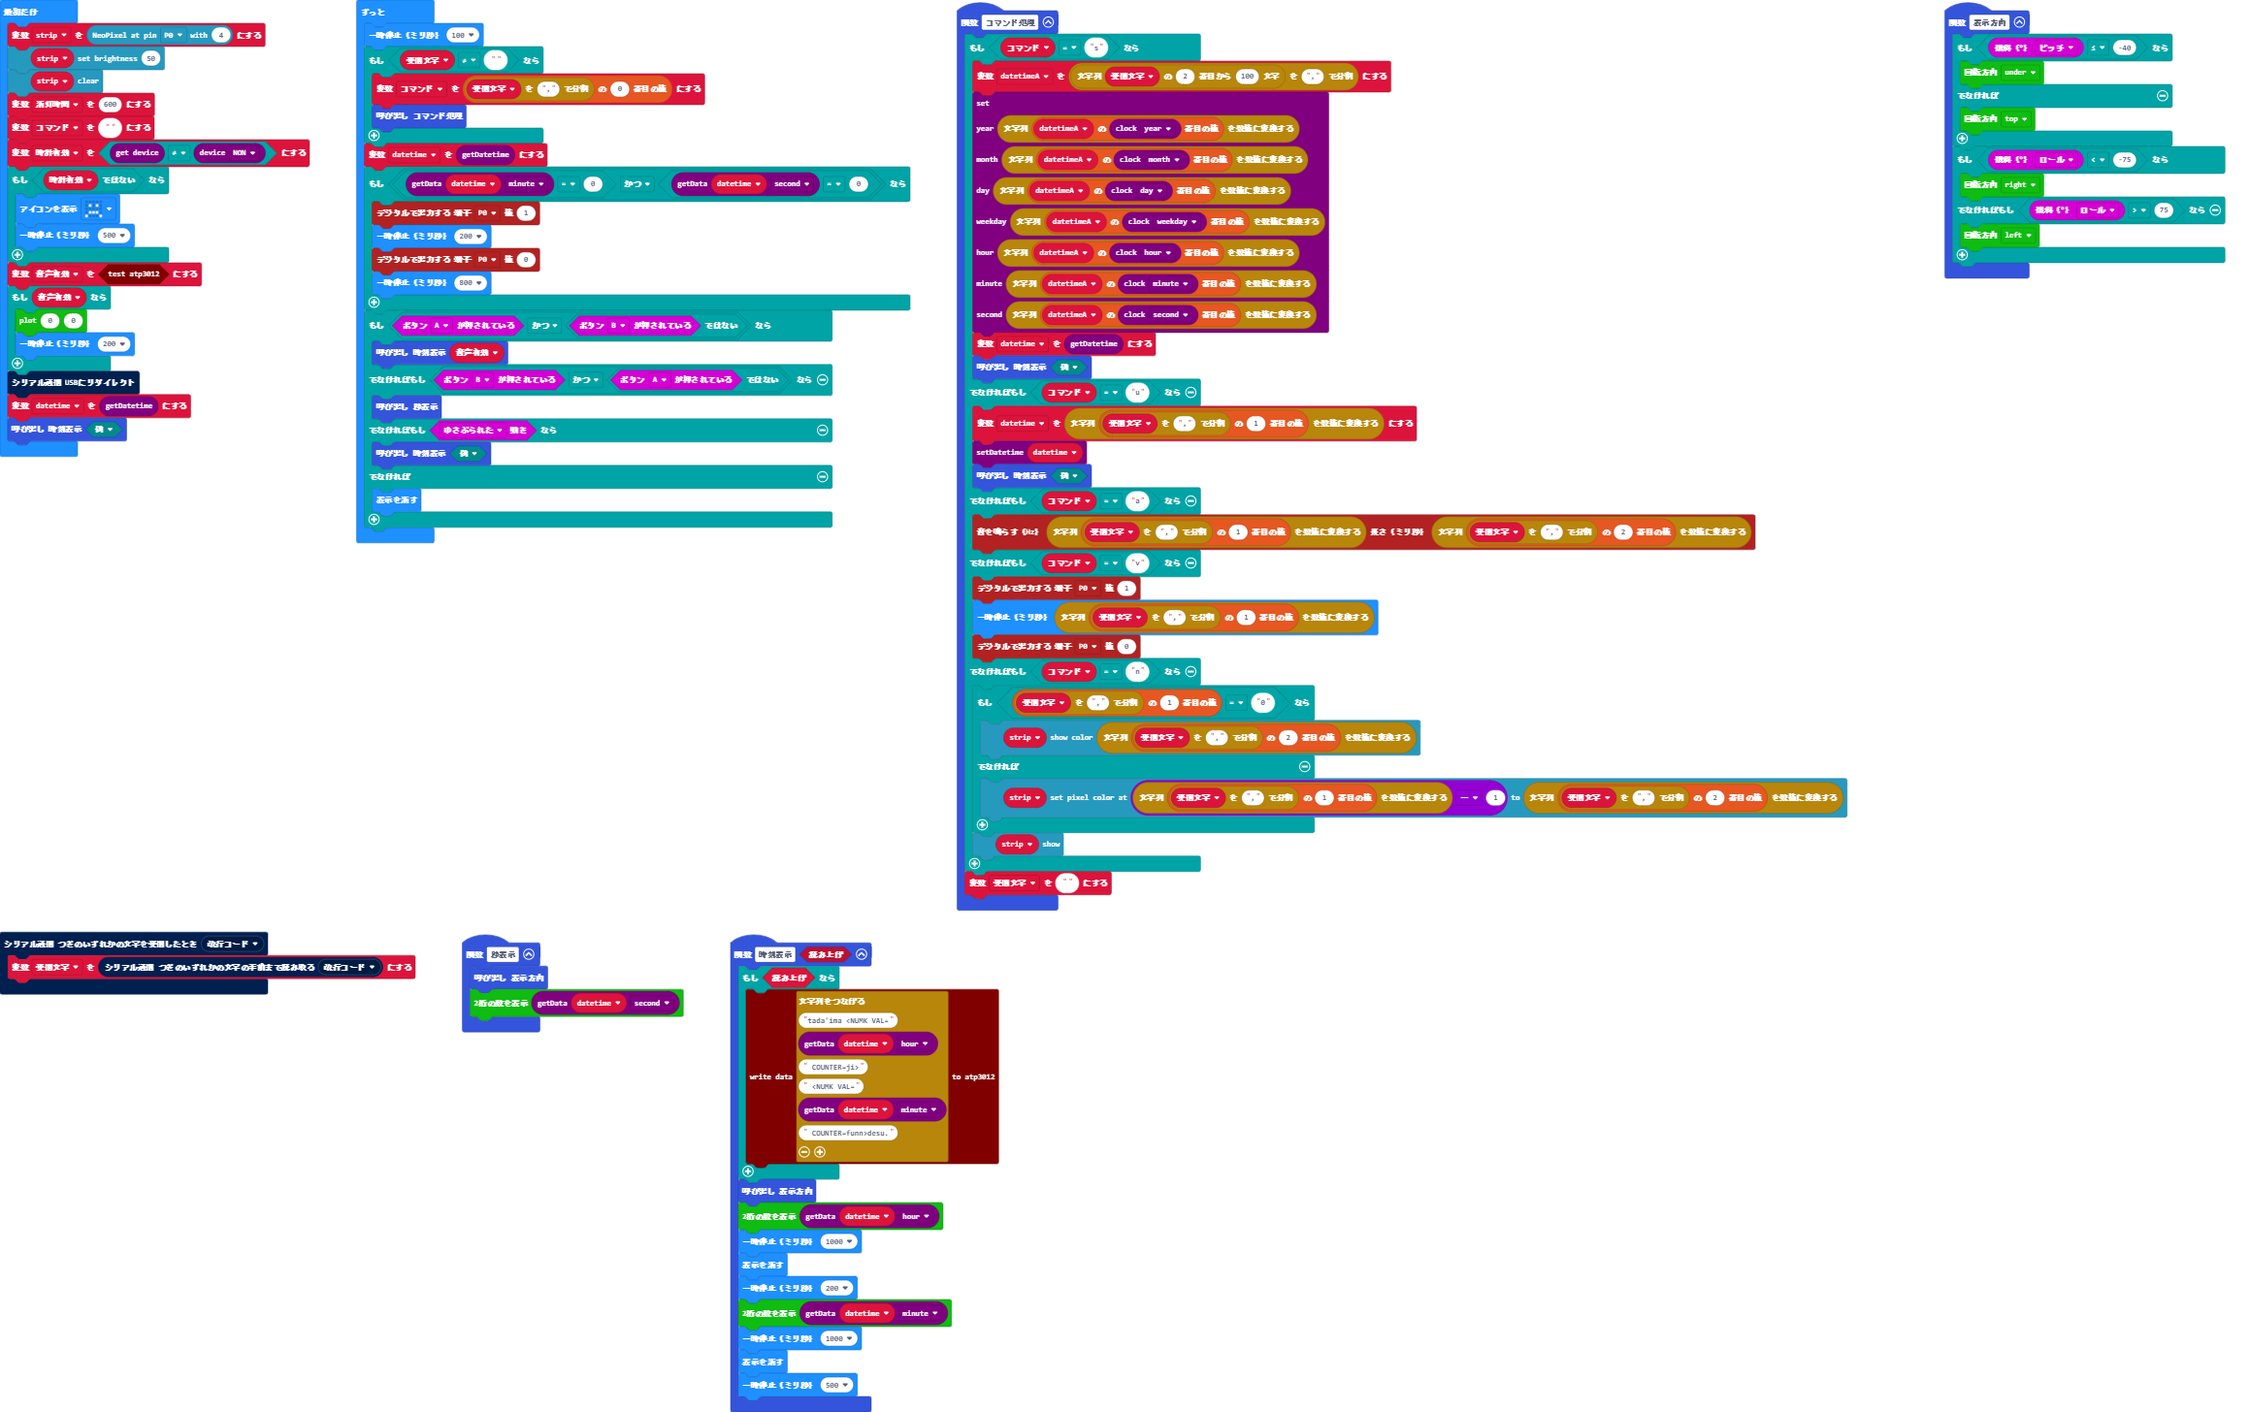
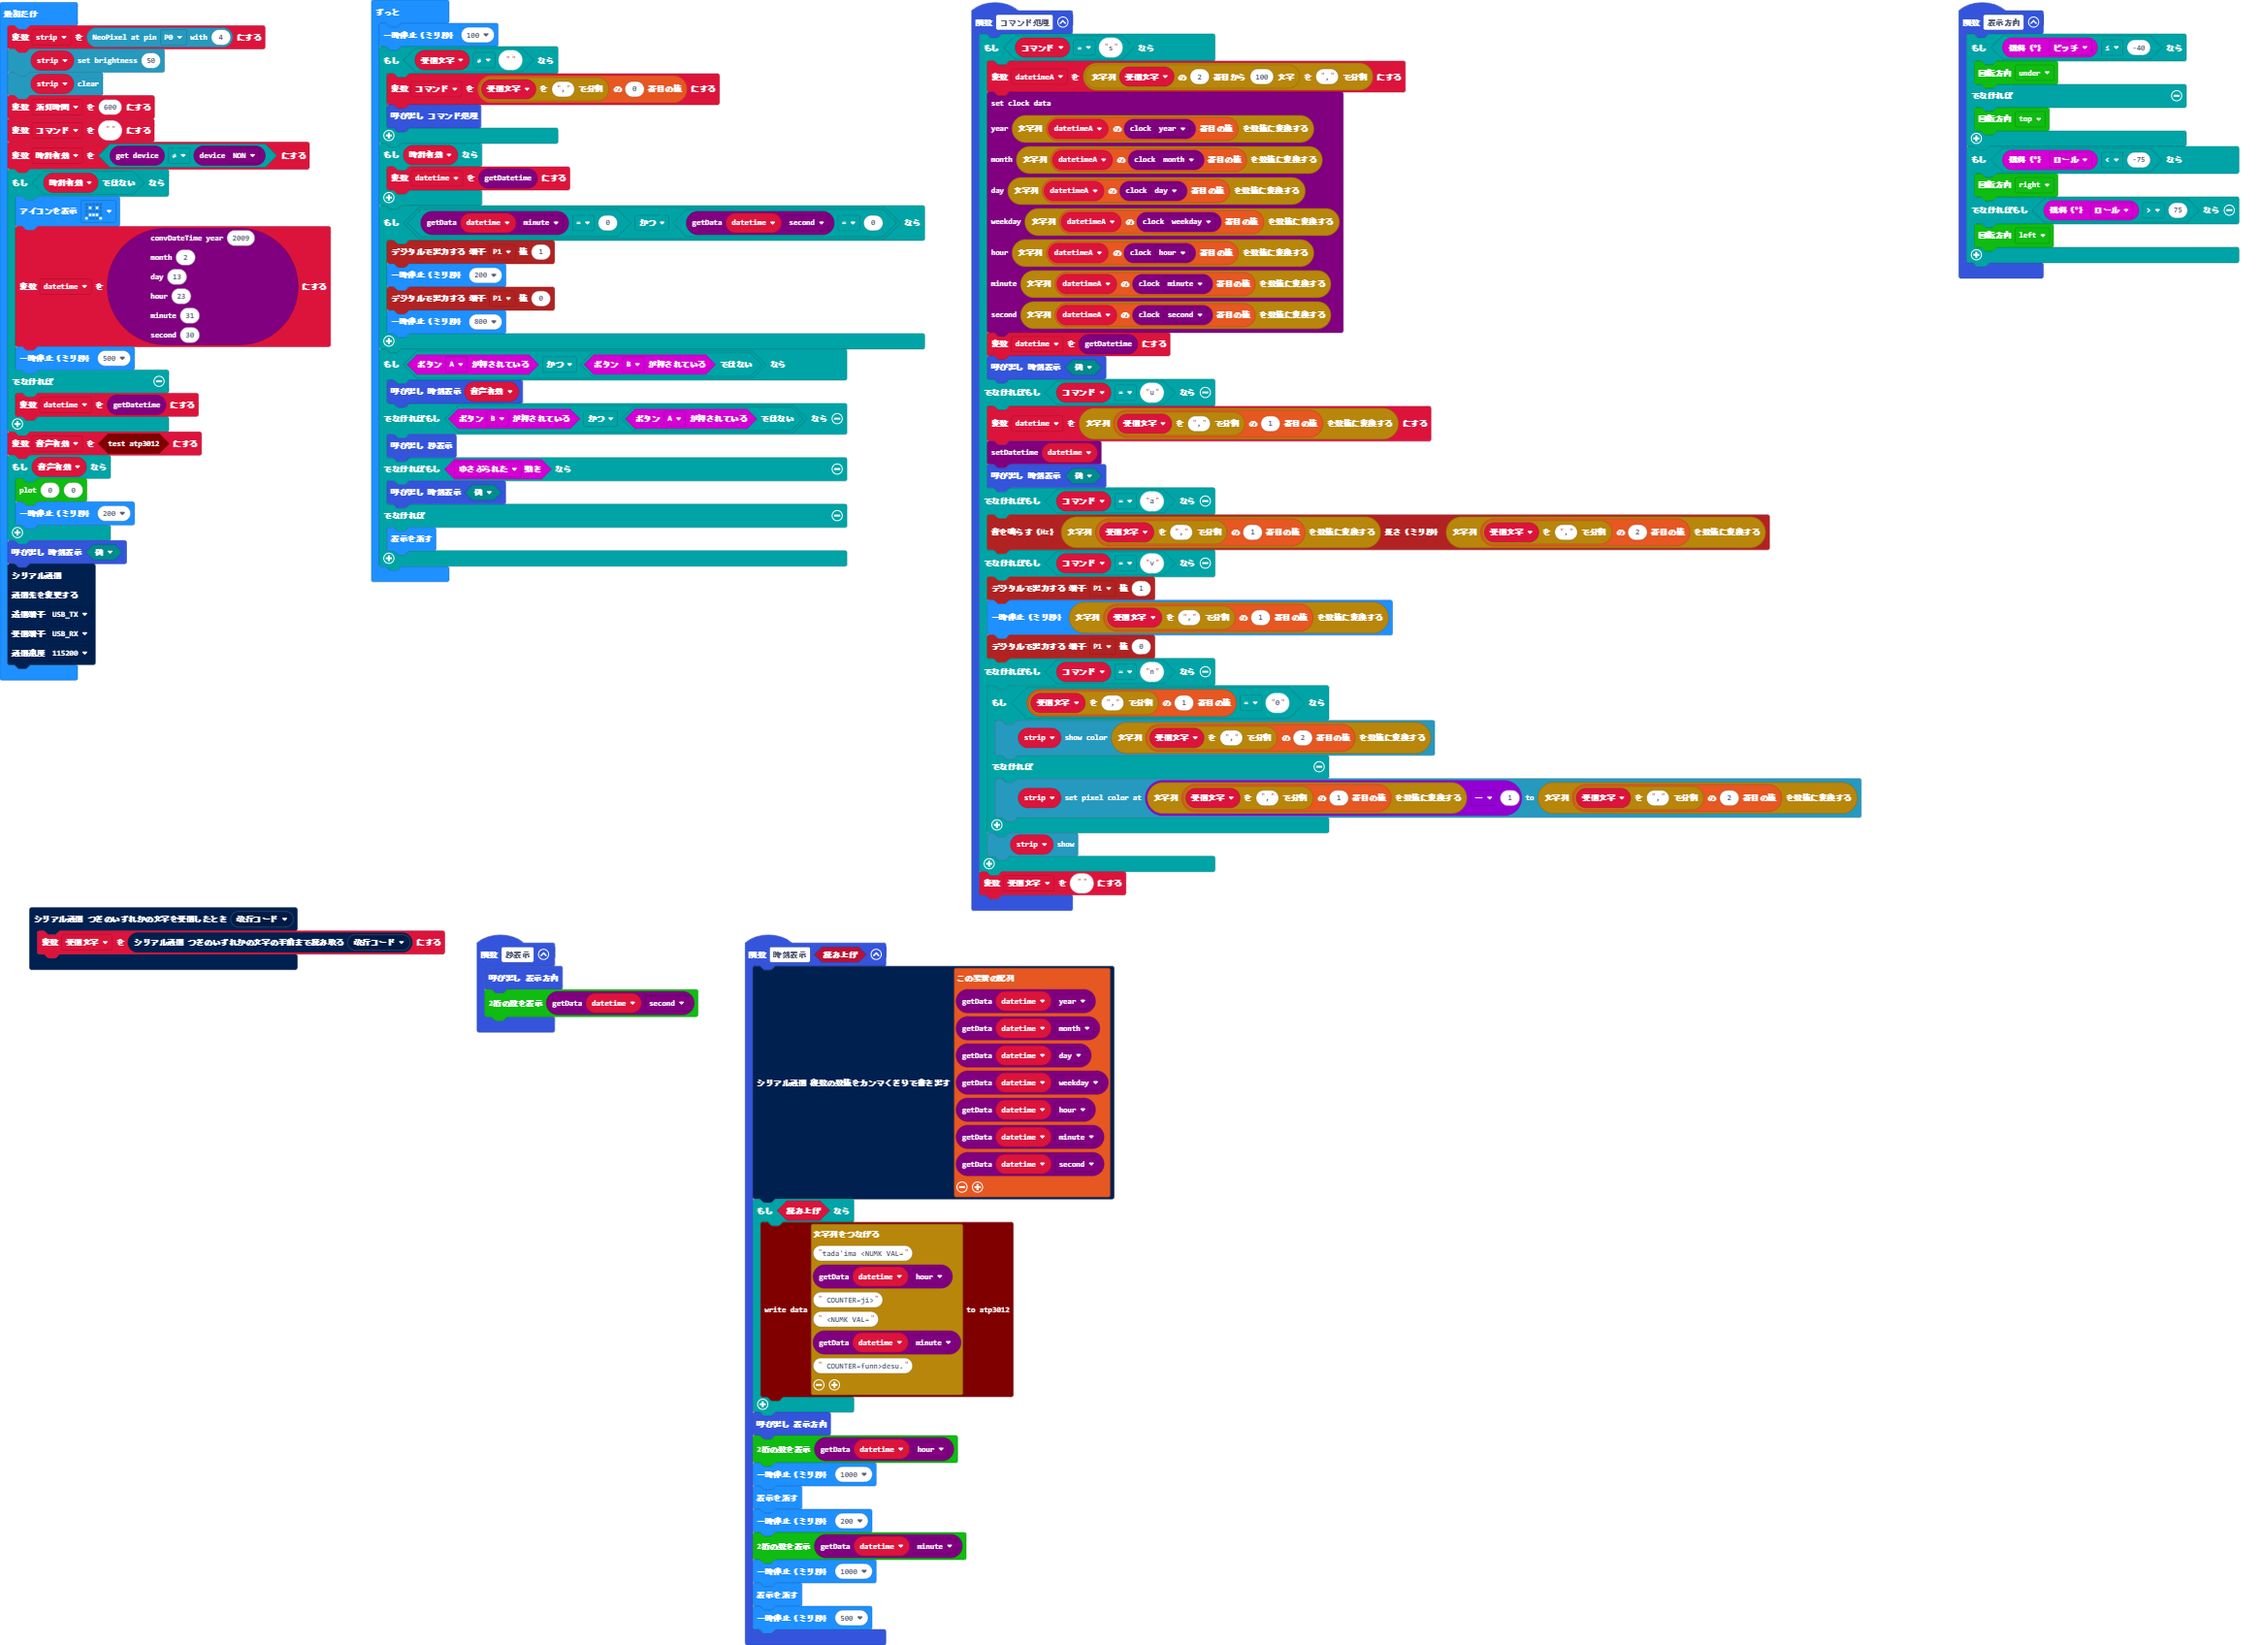
Update pxt.json, main.blocks, main.ts

Changed region(s): [[0.0, 0.0, 0.8383, 1.0], [0.8383, 0.0, 0.9935, 0.2163]]

diff --git a/main.ts b/main.ts
@@ -22,9 +22,9 @@ function コマンド処理 () {
     } else if (コマンド == "a") {
         pins.analogPitch(parseFloat(受信文字.split(",")[1]), parseFloat(受信文字.split(",")[2]))
     } else if (コマンド == "v") {
-        pins.digitalWritePin(DigitalPin.P0, 1)
+        pins.digitalWritePin(DigitalPin.P1, 1)
         basic.pause(parseFloat(受信文字.split(",")[1]))
-        pins.digitalWritePin(DigitalPin.P0, 0)
+        pins.digitalWritePin(DigitalPin.P1, 0)
     } else if (コマンド == "n") {
         if (受信文字.split(",")[1] == "0") {
             strip.showColor(parseFloat(受信文字.split(",")[2]))
@@ -52,6 +52,7 @@ function 秒表示 () {
     watchfont.showNumber2(rtc.getData(datetime, clockData.second))
 }
 function 時刻表示 (読み上げ: boolean) {
+    serial.writeNumbers([rtc.getData(datetime, clockData.year), rtc.getData(datetime, clockData.month), rtc.getData(datetime, clockData.day), rtc.getData(datetime, clockData.weekday), rtc.getData(datetime, clockData.hour), rtc.getData(datetime, clockData.minute), rtc.getData(datetime, clockData.second)])
     if (読み上げ) {
         atp3012.write("tada'ima <NUMK VAL=" + rtc.getData(datetime, clockData.hour) + " COUNTER=ji>" + " <NUMK VAL=" + rtc.getData(datetime, clockData.minute) + " COUNTER=funn>desu.")
     }
@@ -78,27 +79,42 @@ let 消灯時間 = 600
 let 時計有効 = rtc.getDevice() != rtc.getClockDevice(rtcType.NON)
 if (!(時計有効)) {
     basic.showIcon(IconNames.Sad)
+    datetime = rtc.convDateTime(
+    2009,
+    2,
+    13,
+    23,
+    31,
+    30
+    )
     basic.pause(500)
+} else {
+    datetime = rtc.getDatetime()
 }
 let 音声有効 = atp3012.isAvalable()
 if (音声有効) {
     watchfont.plot(0, 0)
     basic.pause(200)
 }
-serial.redirectToUSB()
-datetime = rtc.getDatetime()
 時刻表示(false)
+serial.redirect(
+SerialPin.USB_TX,
+SerialPin.USB_RX,
+BaudRate.BaudRate115200
+)
 basic.forever(function () {
     basic.pause(100)
     if (受信文字 != "") {
         コマンド = 受信文字.split(",")[0]
         コマンド処理()
     }
-    datetime = rtc.getDatetime()
+    if (時計有効) {
+        datetime = rtc.getDatetime()
+    }
     if (rtc.getData(datetime, clockData.minute) == 0 && rtc.getData(datetime, clockData.second) == 0) {
-        pins.digitalWritePin(DigitalPin.P0, 1)
+        pins.digitalWritePin(DigitalPin.P1, 1)
         basic.pause(200)
-        pins.digitalWritePin(DigitalPin.P0, 0)
+        pins.digitalWritePin(DigitalPin.P1, 0)
         basic.pause(800)
     }
     if (input.buttonIsPressed(Button.A) && !(input.buttonIsPressed(Button.B))) {
